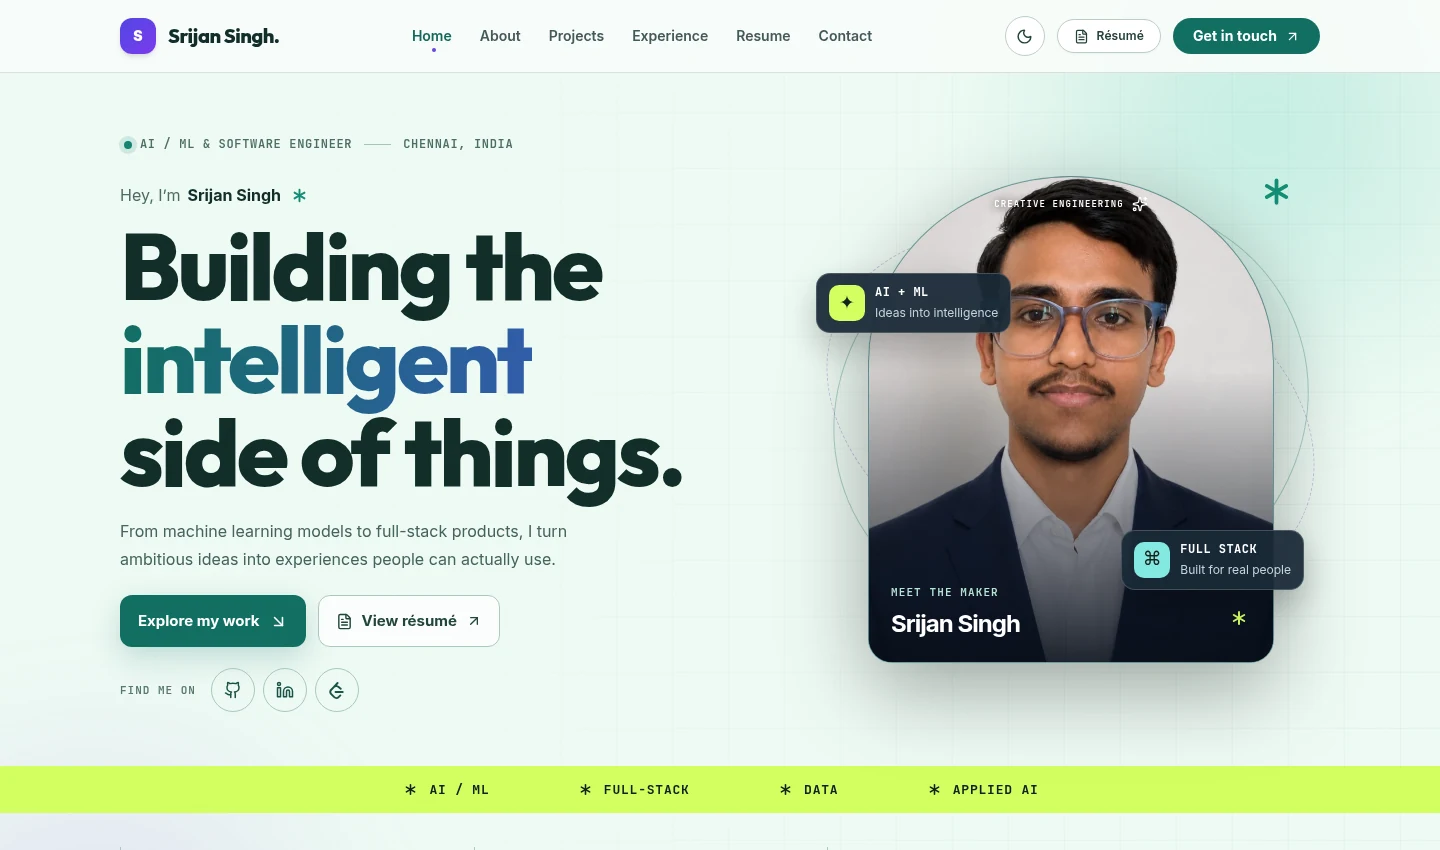
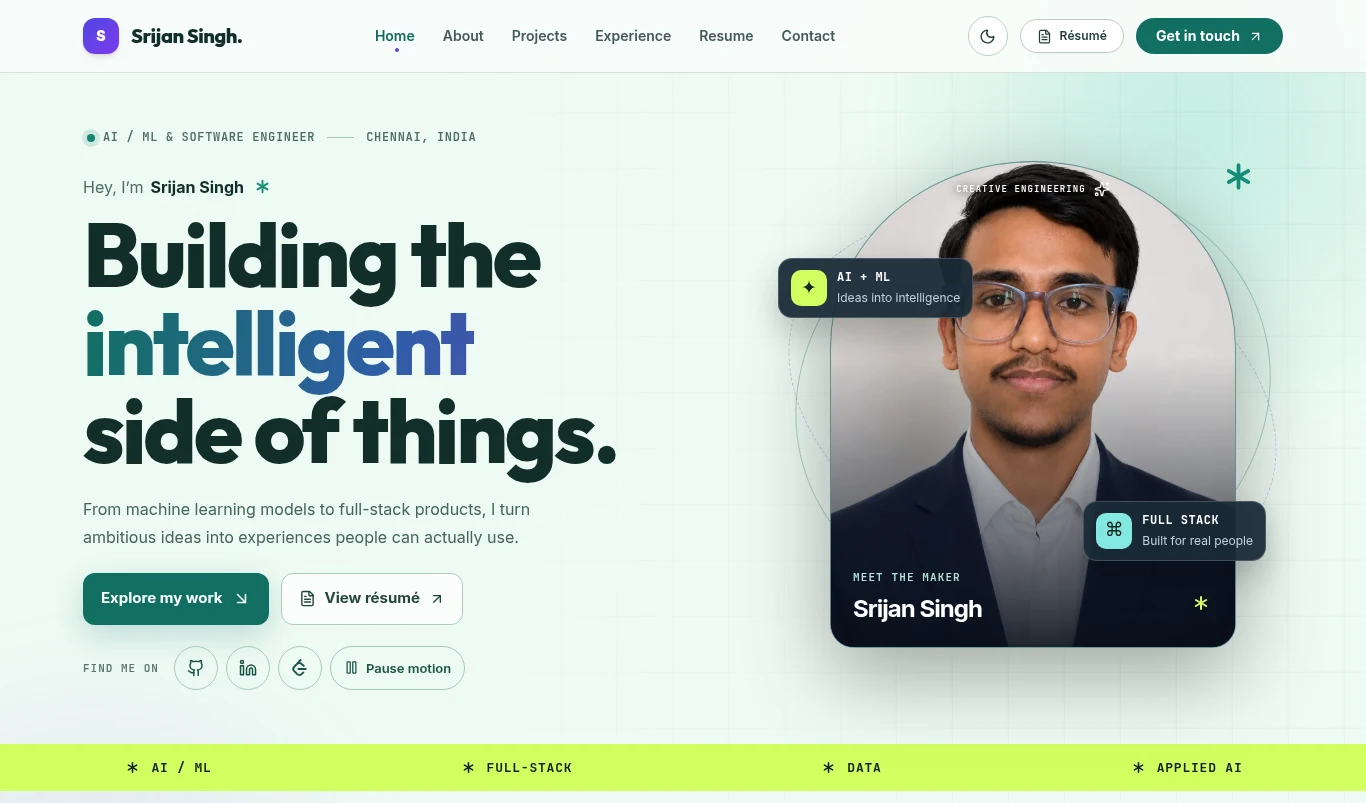
Keep the homepage animated after load (#4)

diff --git a/src/components/sections/HeroSection.jsx b/src/components/sections/HeroSection.jsx
@@ -1,4 +1,5 @@
-import { ArrowDownRight, ArrowUpRight, Asterisk, FileText, Sparkles } from "lucide-react";
+import { useEffect, useState } from "react";
+import { ArrowDownRight, ArrowUpRight, Asterisk, FileText, Pause, Play, Sparkles } from "lucide-react";
 import { Github, LeetCode, Linkedin } from "../Icons";
 import { PROFILE } from "../../data/portfolioData";
 import { PROJECTS } from "../../data/projects";
@@ -6,8 +7,19 @@ import { PROJECTS } from "../../data/projects";
 const specialties = ["AI / ML", "FULL-STACK", "DATA", "APPLIED AI"];
 
 export default function HeroSection() {
+  const [playing, setPlaying] = useState(() => !window.matchMedia("(prefers-reduced-motion: reduce)").matches);
+
+  useEffect(() => {
+    const preference = window.matchMedia("(prefers-reduced-motion: reduce)");
+    const followPreference = (event) => setPlaying(!event.matches);
+    preference.addEventListener("change", followPreference);
+    return () => preference.removeEventListener("change", followPreference);
+  }, []);
+
+  const MotionIcon = playing ? Pause : Play;
+
   return (
-    <section id="hero" className="hero-reimagined">
+    <section id="hero" className="hero-reimagined" data-hero-motion={playing ? "playing" : "paused"}>
       <div className="hero-grid-pattern" aria-hidden="true" />
       <div className="hero-glow hero-glow-one" aria-hidden="true" />
       <div className="hero-glow hero-glow-two" aria-hidden="true" />
@@ -21,7 +33,7 @@ export default function HeroSection() {
           <p className="hero-new-intro">Hey, I’m <strong>{PROFILE.name}</strong> <Asterisk aria-hidden="true" size={23} /></p>
           <h1>
             <span className="hero-title-line">Building the</span>{" "}
-            <span className="hero-title-line"><span className="hero-gradient-word">intelligent</span></span>{" "}
+            <span className="hero-title-line"><span className="hero-gradient-word hero-loop">intelligent</span></span>{" "}
             <span className="hero-title-line">side of things.</span>
           </h1>
           <p className="hero-new-description">From machine learning models to full-stack products, I turn ambitious ideas into experiences people can actually use.</p>
@@ -29,7 +41,15 @@ export default function HeroSection() {
             <a className="hero-new-primary" href="#projects">Explore my work <ArrowDownRight size={19} /></a>
             <a className="hero-new-secondary" href={PROFILE.resumePdfUrl} target="_blank" rel="noreferrer"><FileText size={17} /> View résumé <ArrowUpRight size={16} /></a>
           </div>
-          <div className="hero-new-socials"><span>FIND ME ON</span><a href={PROFILE.github} target="_blank" rel="noreferrer" aria-label="GitHub"><Github size={18} /></a><a href={PROFILE.linkedin} target="_blank" rel="noreferrer" aria-label="LinkedIn"><Linkedin size={18} /></a><a href={PROFILE.leetcode} target="_blank" rel="noreferrer" aria-label="LeetCode"><LeetCode size={17} /></a></div>
+          <div className="hero-new-socials">
+            <span>FIND ME ON</span>
+            <a href={PROFILE.github} target="_blank" rel="noreferrer" aria-label="GitHub"><Github size={18} /></a>
+            <a href={PROFILE.linkedin} target="_blank" rel="noreferrer" aria-label="LinkedIn"><Linkedin size={18} /></a>
+            <a href={PROFILE.leetcode} target="_blank" rel="noreferrer" aria-label="LeetCode"><LeetCode size={17} /></a>
+            <button type="button" className="hero-motion-toggle" onClick={() => setPlaying(!playing)}>
+              <MotionIcon size={15} aria-hidden="true" /> {playing ? "Pause motion" : "Play motion"}
+            </button>
+          </div>
         </div>
         <div className="hero-new-visual">
           <div className="hero-visual-orbit orbit-a" aria-hidden="true" /><div className="hero-visual-orbit orbit-b" aria-hidden="true" />
@@ -38,16 +58,22 @@ export default function HeroSection() {
             <img src={`${import.meta.env.BASE_URL}images/srijan-singh.webp`} alt="Portrait of Srijan Singh" width="822" height="870" fetchPriority="high" />
             <div className="hero-image-caption"><span>MEET THE MAKER</span><strong>{PROFILE.name}<Asterisk size={24} aria-hidden="true" /></strong></div>
           </div>
-          <div className="hero-floating-card hero-floating-ai"><span aria-hidden="true">✦</span><div><strong>AI + ML</strong><small>Ideas into intelligence</small></div></div>
-          <div className="hero-floating-card hero-floating-code"><span aria-hidden="true">⌘</span><div><strong>FULL STACK</strong><small>Built for real people</small></div></div>
+          <div className="hero-loop hero-floating-card hero-floating-ai"><span aria-hidden="true">✦</span><div><strong>AI + ML</strong><small>Ideas into intelligence</small></div></div>
+          <div className="hero-loop hero-floating-card hero-floating-code"><span aria-hidden="true">⌘</span><div><strong>FULL STACK</strong><small>Built for real people</small></div></div>
           <Asterisk className="hero-visual-spark" size={45} aria-hidden="true" />
         </div>
       </div>
-      <ul className="hero-specialty-bar" aria-label="Areas of work">
-        {specialties.map((specialty) => (
-          <li key={specialty}><Asterisk size={19} aria-hidden="true" />{specialty}</li>
-        ))}
-      </ul>
+      <div className="hero-specialty-bar">
+        <div className="hero-specialty-track hero-loop">
+          {[false, true].map((duplicate) => (
+            <ul key={String(duplicate)} className="hero-specialty-group" aria-label="Areas of work" aria-hidden={duplicate || undefined}>
+              {specialties.map((specialty) => (
+                <li key={specialty}><Asterisk size={19} aria-hidden="true" />{specialty}</li>
+              ))}
+            </ul>
+          ))}
+        </div>
+      </div>
       <div className="hero-new-stats">
         <div><strong>{PROFILE.cgpa.split("/")[0]}</strong><span>CGPA AT SRMIST</span></div>
         <div><strong>92.10%</strong><span>MOODLINE TEST ACCURACY</span></div>

diff --git a/src/redesign.css b/src/redesign.css
@@ -45,7 +45,7 @@
 .hero-new-intro strong { color: #fff; }
 .hero-new-intro svg { color: #d3ff61; flex: 0 0 auto; }
 .hero-new-copy h1 { margin: 0; color: #fff; font-size: clamp(3.25rem, 6.5vw, 6.125rem); line-height: .99; letter-spacing: -.033em; font-weight: 750; }
-.hero-gradient-word { background: linear-gradient(100deg,#caff61,#62e7dc,#80a4ff); background-size: 200% 100%; -webkit-background-clip: text; background-clip: text; -webkit-text-fill-color: transparent; }
+.hero-gradient-word { background: linear-gradient(100deg,#caff61,#62e7dc,#80a4ff,#caff61); background-size: 250% 100%; -webkit-background-clip: text; background-clip: text; -webkit-text-fill-color: transparent; }
 .hero-title-line { display: block; }
 .hero-new-description { max-width: 510px; margin: 20px 0 22px; color: #b5c2d3; font-size: 16px; line-height: 1.75; }
 .hero-new-actions { display: flex; align-items: center; flex-wrap: wrap; gap: 12px; }
@@ -54,7 +54,7 @@
 .hero-new-primary:hover { box-shadow: 0 14px 35px rgba(193,255,74,.3); }
 .hero-new-secondary { color: #f1f6ff; background: rgba(255,255,255,.05); border-color: rgba(255,255,255,.2); }
 .hero-new-secondary:hover { background: rgba(255,255,255,.12); }
-.hero-new-socials { display: flex; align-items: center; gap: 8px; margin-top: 21px; }
+.hero-new-socials { display: flex; flex-wrap: wrap; align-items: center; gap: 8px; margin-top: 21px; }
 .hero-new-socials > span { margin-right: 7px; color: #8fa0b5; font: 600 .6875rem var(--font-mono); letter-spacing: .09em; }
 .hero-new-socials a { display: grid; place-items: center; width: 44px; height: 44px; border: 1px solid rgba(255,255,255,.2); border-radius: 50%; color: #e9f2fa; text-decoration: none; font: 700 10px var(--font-mono); transition: color .2s,border-color .2s,transform .2s; }
 .hero-new-socials a:hover { color: #d3ff61; border-color: #d3ff61; }
@@ -78,15 +78,38 @@
 .hero-floating-code { right: -18px; bottom: 18%; }
 .hero-floating-code > span { background: #83e9e1; }
 .hero-visual-spark { position: absolute; top: 1%; right: -3%; color: #d3ff61; width: clamp(28px, 4vw, 45px); height: auto; }
+.hero-motion-toggle {
+  display: inline-flex;
+  align-items: center;
+  gap: .45rem;
+  min-height: 44px;
+  padding: 0 .8rem;
+  border: 1px solid rgba(255,255,255,.24);
+  border-radius: 999px;
+  color: #e9f2fa;
+  background: transparent;
+  font: 600 .8125rem var(--font-sans);
+  cursor: pointer;
+}
+.theme-light .hero-motion-toggle { color: #1c5349; border-color: #a7c8bd; }
+.hero-motion-toggle:hover { border-color: currentColor; }
+.hero-motion-toggle:focus-visible { outline: 3px solid currentColor; outline-offset: 3px; }
+
 .hero-specialty-bar {
-  display: flex;
-  flex-wrap: wrap;
-  justify-content: center;
-  gap: 10px clamp(20px, 6vw, 88px);
+  overflow: hidden;
   margin: clamp(28px, 4vw, 54px) calc(-1 * var(--hero-inset)) 24px;
-  padding: 14px var(--hero-gutter);
+  padding-block: 14px;
   background: #d3ff61;
   color: #132119;
+}
+.hero-specialty-track { display: flex; width: max-content; }
+.hero-specialty-group {
+  display: flex;
+  align-items: center;
+  justify-content: space-around;
+  width: max(100vw, 40rem);
+  margin: 0;
+  padding: 0;
   list-style: none;
 }
 .hero-specialty-bar li {
@@ -188,7 +211,7 @@
 .theme-light .hero-new-intro { color: #4d6c64; }
 .theme-light .hero-new-intro strong, .theme-light .hero-new-copy h1 { color: #122e2a; }
 .theme-light .hero-new-intro svg, .theme-light .hero-visual-spark { color: #148d75; }
-.theme-light .hero-gradient-word { background-image: linear-gradient(100deg,#126f62,#315ca9,#6c479e); }
+.theme-light .hero-gradient-word { background-image: linear-gradient(100deg,#126f62,#315ca9,#7344aa,#126f62); }
 .theme-light .hero-new-description { color: #45635d; }
 .theme-light .hero-new-primary { background: #126f62; color: #fff; box-shadow: 0 10px 30px rgba(18,111,98,.22); }
 .theme-light .hero-new-primary:hover { box-shadow: 0 14px 35px rgba(18,111,98,.3); }
@@ -231,9 +254,6 @@
   .hero-new-copy > :focus-within { animation: none; }
 
   .hero-new-visual { animation: hero-portrait-in .75s cubic-bezier(.22, 1, .36, 1) .12s both; }
-  .hero-gradient-word { animation: hero-gradient-sweep 2.8s ease-out .2s both; }
-  .hero-floating-card { animation: hero-card-float 3s ease-in-out .72s; }
-  .hero-floating-code { animation-delay: .92s; }
 
   .hero-new-actions a svg:last-child { transition: transform .25s cubic-bezier(.22, 1, .36, 1); }
   .hero-new-actions a:is(:hover, :focus-visible) { transform: translateY(-3px); }
@@ -263,13 +283,30 @@
   to { opacity: 1; transform: translateY(0) scale(1); }
 }
 
+.hero-gradient-word { animation: hero-gradient-sweep 3.2s ease-in-out infinite alternate; }
+.hero-floating-card { animation: hero-card-float 4s ease-in-out infinite; }
+.hero-floating-code { animation-delay: -2s; }
+.hero-specialty-track { animation: hero-marquee 18s linear infinite; }
+.hero-reimagined[data-hero-motion="paused"] .hero-loop { animation-play-state: paused; }
+
 @keyframes hero-gradient-sweep {
-  from { background-position: 90% 50%; }
-  to { background-position: 0% 50%; }
+  from { background-position: 0% 50%; }
+  to { background-position: 100% 50%; }
 }
 
 @keyframes hero-card-float {
-  50% { translate: 0 -7px; }
+  0%, 100% { translate: 0 0; }
+  50% { translate: 0 -14px; }
+}
+
+@keyframes hero-marquee {
+  to { transform: translateX(-50%); }
+}
+
+@media (prefers-reduced-motion: reduce) {
+  [data-hero-motion="paused"] .hero-specialty-track { width: 100%; animation: none; }
+  [data-hero-motion="paused"] .hero-specialty-group { width: 100%; flex-wrap: wrap; gap: .7rem 1.25rem; justify-content: center; }
+  [data-hero-motion="paused"] .hero-specialty-group[aria-hidden="true"] { display: none; }
 }
 
 @media (prefers-reduced-motion: no-preference) {

diff --git a/src/styles.css b/src/styles.css
@@ -410,7 +410,9 @@ body::before {
 html { scroll-behavior: smooth; scroll-padding-top: 88px; }
 .section-label { color: var(--color-primary); }
 @media (prefers-reduced-motion: reduce) {
-  *, *::before, *::after { scroll-behavior: auto !important; animation-duration: .01ms !important; animation-iteration-count: 1 !important; transition-duration: .01ms !important; }
+  *, *::before, *::after { scroll-behavior: auto !important; transition-duration: .01ms !important; }
+  /* The hero loops have a play/pause control and start paused with this preference. */
+  :not(.hero-loop), *::before, *::after { animation-duration: .01ms !important; animation-iteration-count: 1 !important; }
 }
 
 /* Editorial portfolio system: warmer paper, ink, and a restrained violet accent. */

diff --git a/README.md b/README.md
@@ -4,14 +4,18 @@ I’m a computer science student at SRMIST building applied machine learning pro
 
 [Visit the live portfolio](https://srijansingh2006.github.io/PERSONAL-PORFOLIO-WEBSITE/)
 
-![The portfolio homepage in the mint light theme, featuring the main headline and Srijan’s portrait](./docs/portfolio-preview.webp)
+<picture>
+  <source media="(prefers-reduced-motion: reduce)" srcset="./docs/portfolio-preview.webp">
+  <img src="./docs/homepage-motion.gif" alt="The mint portfolio homepage with a shifting headline gradient, floating portrait badges, and scrolling specialties">
+</picture>
 
 ## Explore the portfolio
 
 - Browse nine projects across AI/ML, full-stack engineering, and data and product work. Each case study explains the problem, approach, implementation, and results, and links to the source.
 - Read about my experience and credentials, preview the résumé, or open the PDF.
 - Switch between the mint light theme and the dark theme. The site remembers your preference.
-- The introduction uses staggered headline and portrait entrances. Project cards move into their new positions when you change filters, and the artwork responds to hover and keyboard focus. Motion follows your device’s reduced-motion setting.
+- The headline cycles through a gradient, the portrait badges float, and the lime specialty strip scrolls across the screen. Use **Pause motion** or **Play motion** beside the social links. The animation starts paused when your device requests reduced motion.
+- Project cards slide into place when you change filters, and the artwork responds to hover and keyboard focus.
 
 ## Run locally
 
